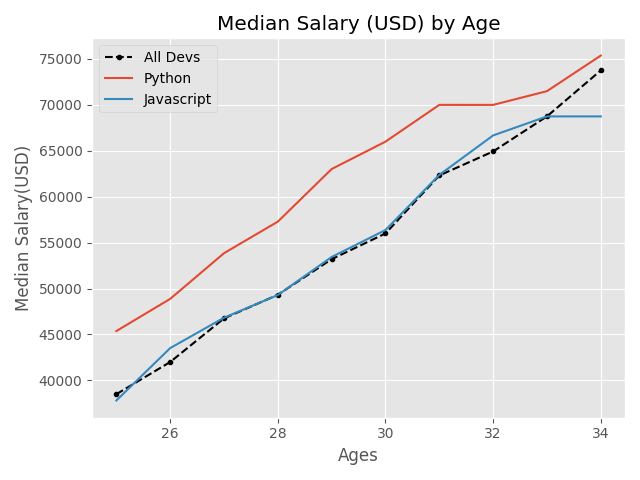
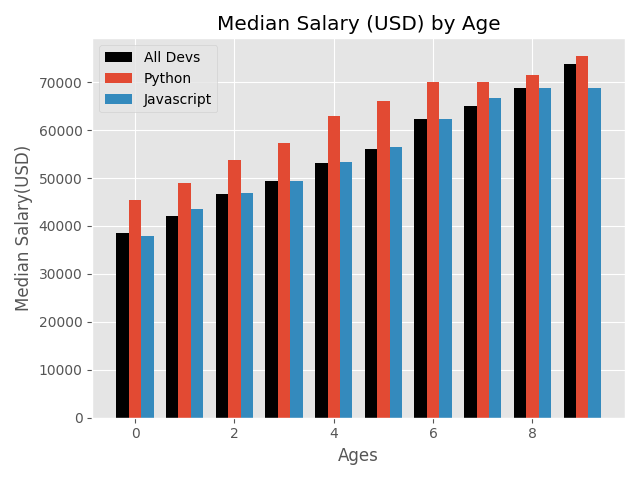
created another chat displaying the same result of developers but using bar chart

diff --git a/barchat.py b/barchat.py
@@ -11,21 +11,24 @@ plt.style.use('ggplot')
 
 ages_x = [25, 26, 27, 28, 29, 30, 31, 32, 33, 34]
 
+x_indexes = np.arange(len(ages_x))
+width = 0.25
+
 dev_y = [38496, 42000, 46752, 49320, 53200, 56000, 62316, 64928, 68748, 73752]
 
-plt.plot(ages_x, dev_y, color='k', linestyle='--', marker='.', label='All Devs')
-# plt.bar(ages_x, dev_y, color='k', label='All Devs')
+# plt.plot(ages_x, dev_y, color='k', linestyle='--', marker='.', label='All Devs')
+plt.bar(x_indexes - width, dev_y, width=width, color='k', label='All Devs')
 
 
 py_dev_y = [45372, 48876, 53850, 57287, 63016, 65998, 70003, 70000, 71496, 75370]
 
-plt.plot(ages_x, py_dev_y, label='Python')
+plt.bar(x_indexes, py_dev_y, width=width, label='Python')
 
 
 js_dev_y = [37810, 43515, 46823, 49293, 53437, 56373, 62375, 66674, 68745, 68746]
 
-plt.plot(ages_x, js_dev_y, label='Javascript')
-# plt.bar(ages_x, js_dev_y, label='Javascript')
+
+plt.bar(x_indexes + width, js_dev_y, width=width, label='Javascript')
 
 
 plt.xlabel('Ages')
